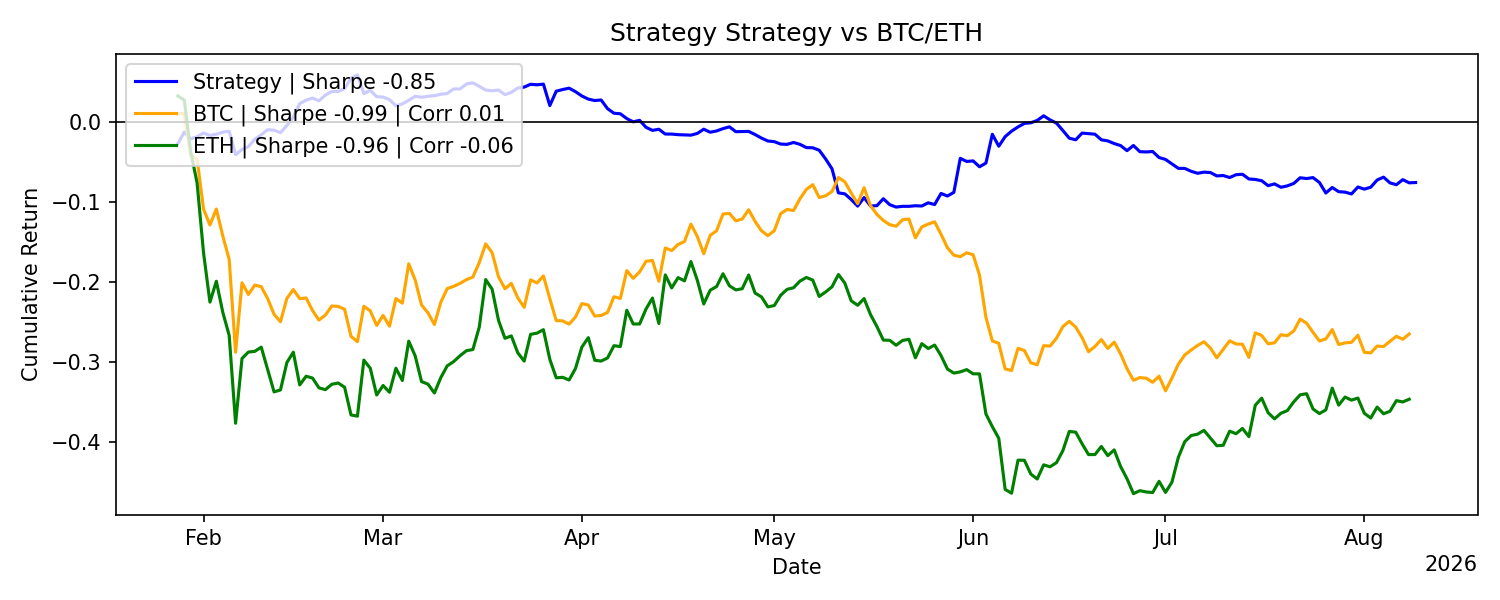
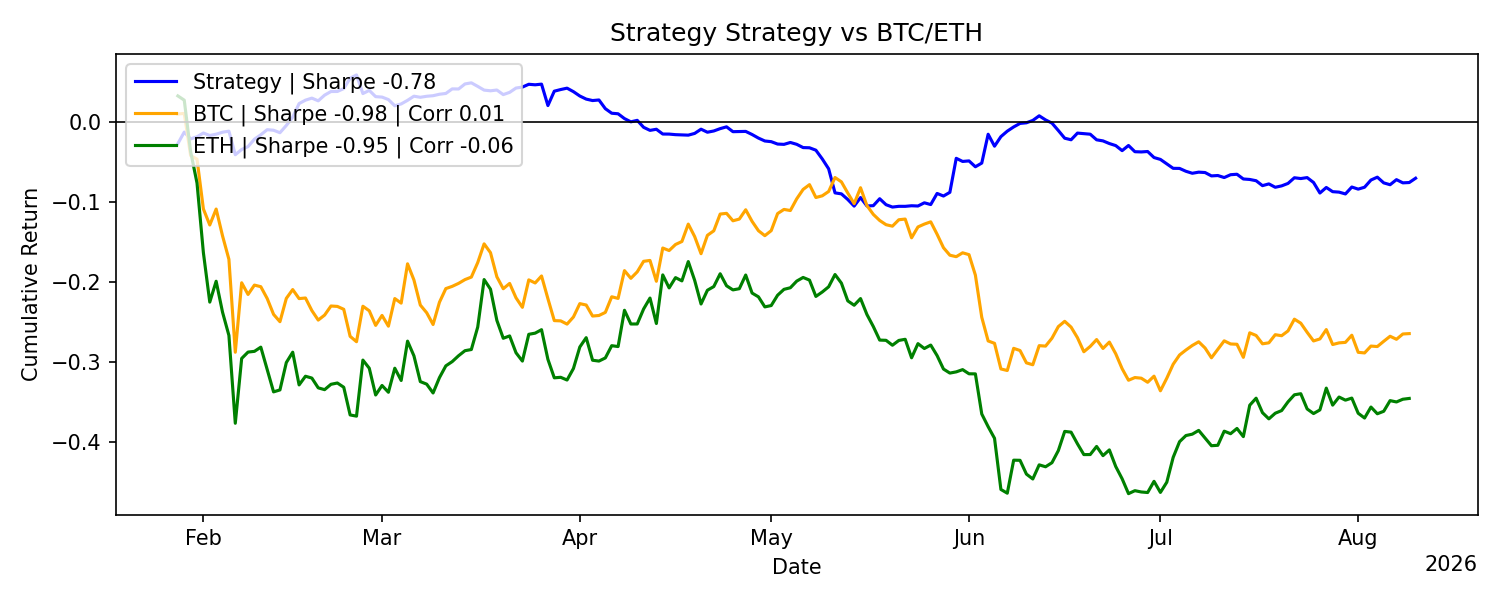
Update reports: 2026-08-10 00:00:07 UTC

diff --git a/README.md b/README.md
@@ -24,26 +24,26 @@ All results are live and reported net of transaction costs and slippage.
 <!-- METRICS_START -->
 | metric                       |        values |
 |:-----------------------------|--------------:|
-| Number of Observations       | 194           |
-| Mean Daily Return            |  -0.000370741 |
-| Daily Volatility             |   0.00834486  |
-| Mean Annualized Return       |  -0.13532     |
-| Annualized Volatility        |   0.159428    |
+| Number of Observations       | 195           |
+| Mean Daily Return            |  -0.000338909 |
+| Daily Volatility             |   0.00833519  |
+| Mean Annualized Return       |  -0.123702    |
+| Annualized Volatility        |   0.159244    |
 | Maximum Drawdown             |  -0.156146    |
-| Max Drawdown Duration (Days) | 165           |
-| Sharpe                       |  -0.848785    |
-| Sortino                      |  -1.1772      |
-| Calmar                       |  -0.866628    |
-| CAGR                         |  -0.137531    |
-| Skewness                     |   0.670922    |
-| Excess Kurtosis              |   8.70664     |
-| Win Rate                     |   0.469072    |
-| Profit Factor                |   0.870046    |
-| VaR 1%                       |  -0.027081    |
+| Max Drawdown Duration (Days) | 166           |
+| Sharpe                       |  -0.77681     |
+| Sortino                      |  -1.07613     |
+| Calmar                       |  -0.79222     |
+| CAGR                         |  -0.127423    |
+| Skewness                     |   0.66033     |
+| Excess Kurtosis              |   8.69004     |
+| Win Rate                     |   0.471795    |
+| Profit Factor                |   0.880591    |
+| VaR 1%                       |  -0.0270512   |
 | CVaR 1%                      |  -0.030925    |
-| VaR 5%                       |  -0.0108476   |
+| VaR 5%                       |  -0.0108103   |
 | CVaR 5%                      |  -0.0201626   |
-| Correlation with BTC         |   0.00714793  |
+| Correlation with BTC         |   0.0071859   |
 <!-- METRICS_END -->
 
 ## Sharpe Statistics
@@ -55,14 +55,14 @@ All results are live and reported net of transaction costs and slippage.
 | metric                     |   values |
 |:---------------------------|---------:|
 | alpha                      |   0.05   |
-| t-statistic                |  -0.6188 |
-| p-value                    |   0.5368 |
-| Daily Sharpe Ratio         |  -0.0444 |
-| Annualized Sharpe Ratio    |  -0.8488 |
-| Sharpe Standard Error      |   1.3991 |
-| C.I. Lower Bound           |  -3.591  |
-| C.I. Upper Bound           |   1.8935 |
-| Bootstrap C.I. Lower Bound |  -3.9012 |
-| Bootstrap C.I. Upper Bound |   2.5429 |
+| t-statistic                |  -0.5678 |
+| p-value                    |   0.5708 |
+| Daily Sharpe Ratio         |  -0.0407 |
+| Annualized Sharpe Ratio    |  -0.7768 |
+| Sharpe Standard Error      |   1.3929 |
+| C.I. Lower Bound           |  -3.5069 |
+| C.I. Upper Bound           |   1.9533 |
+| Bootstrap C.I. Lower Bound |  -3.6899 |
+| Bootstrap C.I. Upper Bound |   2.5711 |
 <!-- SHARPE_END -->
 
